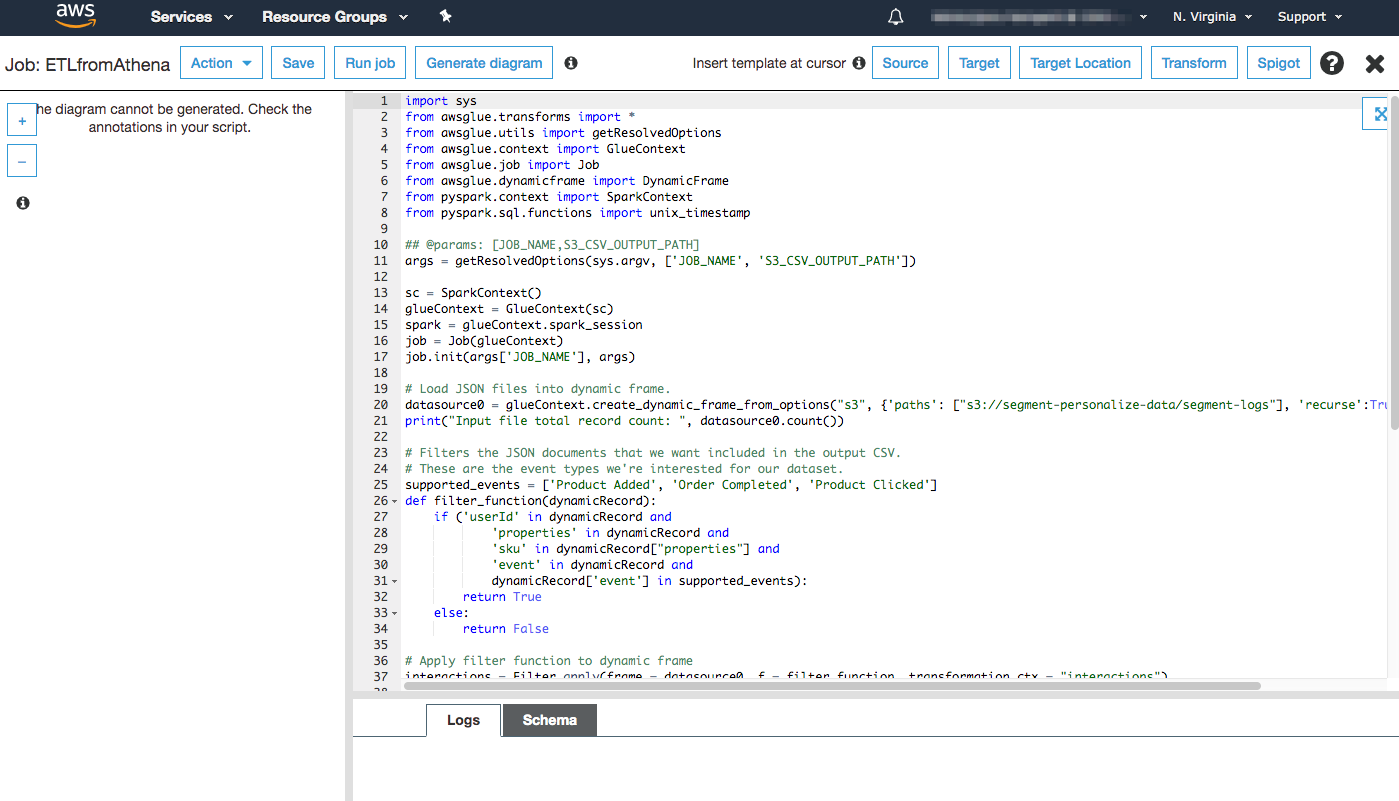
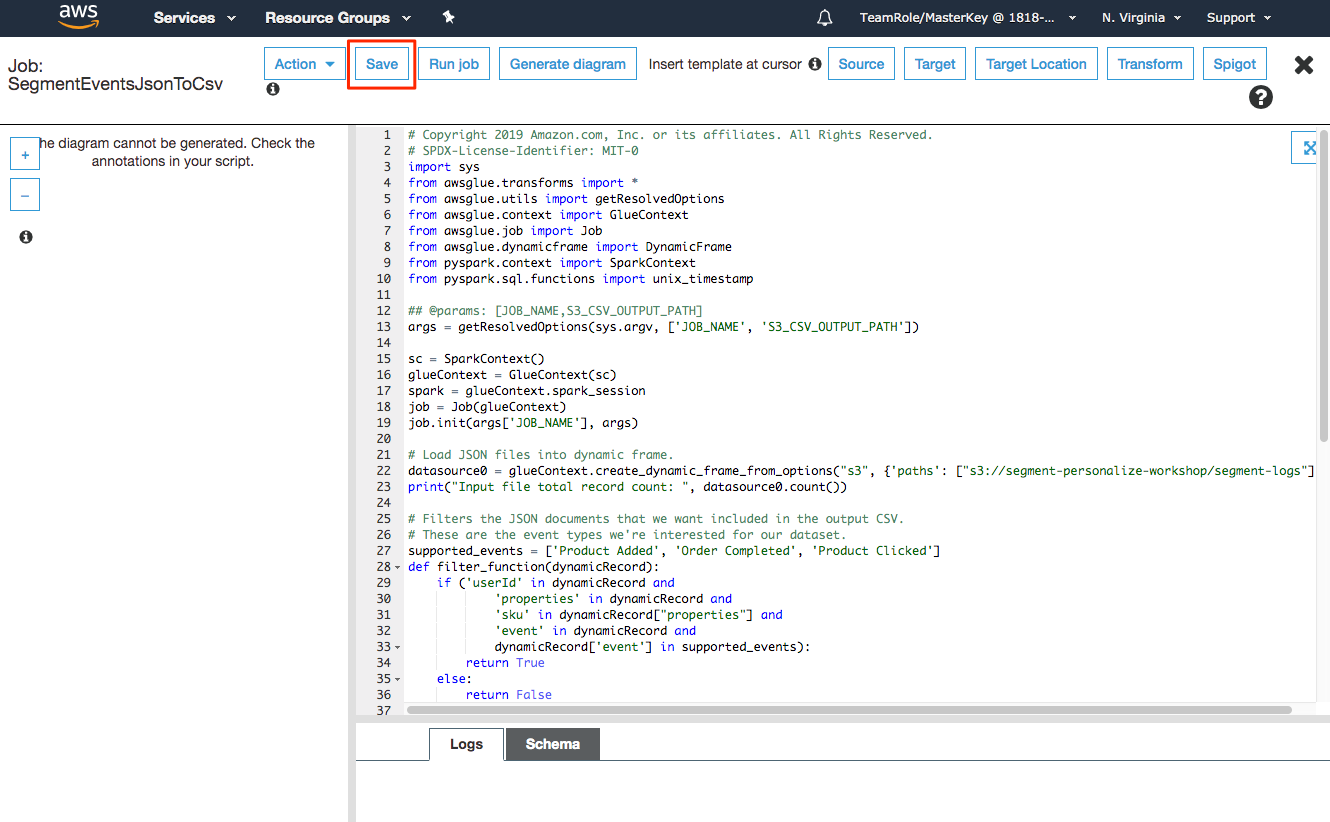
Sync screenshots for Ex 1 & 2

diff --git a/exercise1/README.md b/exercise1/README.md
@@ -344,9 +344,9 @@ In the interest of time, we have pre-populated an S3 bucket with raw historical 
 
 In this step we will demonstrate how Amazon Athena can be used to create external table pointing at the raw JSON files and then query those files using SQL. This can be an invaluable tool to inspect your data before uploading it into Personalize and as you iterate with models over time.
 
-Log in to the AWS console. If you are participating in an AWS led workshop, use the instructions provided to access your temporary workshop account. Browse to the Amazon Athena service page in the console, making sure that you are in the "N. Virginia" region.
+Log in to the AWS console. If you are participating in an AWS led workshop, use the instructions provided to access your temporary workshop account. Browse to the Amazon Athena service page in the console, making sure that you are in the "N. Virginia" region. If this is the first time you've used Athena, you will be presented with a welcome page. Click the "Get started" button to continue. If the tutorial is presented, feel free to walk through the tutorial or click the "X" to exit the tutorial.
 
-Before we can create a table for the data in S3, we need an Athena database. For the purposes of this exercise, the database that we use is not important. If a "default" database has not been setup for you, create one by entering the following DDL statement in the "New query 1" tab and pressing the "Run query" button.
+Before we can create a table for the data in S3, we need an Athena database. For the purposes of this exercise, the database that we use is not important. If a "default" or "sampledb" database already exists in your account, you can use that for the new table. Otherwise you can create a new database using the DDL statement below (paste it into the "New query 1" tab and press "Run query".
 
 ```sql
 CREATE DATABASE IF NOT EXISTS default;
@@ -354,7 +354,23 @@ CREATE DATABASE IF NOT EXISTS default;
 
 ![Create Athena Database](images/AthenaCreateDatabase.png)
 
-Next let's create a table in the Athena database above that points to the historical data in S3. We have written the DDL statement for you that will create this table. Open the [sql/athena_create_table.sql](sql/athena_create_table.sql) file, copy the contents to your clipboard, and paste file contents into the "New query 1" tab in the Athena console. Take a moment to inspect the `CREATE EXTERNAL TABLE...` statement. One important aspect of this DDL statement is that there are several field name mapping statements in the `SERDEPROPERTIES` section. These mappings address the [Athena requirement](https://docs.aws.amazon.com/athena/latest/ug/tables-databases-columns-names.html) that the only special character allowed database, table, view, and column names is an underscore. Since the Segment test data has several trait names with embedded spaces, these mappings allow us to safely query this data in Athena.
+Next let's create a table in the Athena database above that points to the historical data in S3. We have written the DDL statement for you that will create this table. Open the [sql/athena_create_table.sql](sql/athena_create_table.sql) file, copy the contents to your clipboard, and paste file contents into the "New query 1" tab in the Athena console. Take a moment to inspect the `CREATE EXTERNAL TABLE...` statement. One important aspect of this DDL statement is that there are several field name mapping statements in the `SERDEPROPERTIES` section (as shown below). These mappings address the [Athena requirement](https://docs.aws.amazon.com/athena/latest/ug/tables-databases-columns-names.html) that the only special character allowed database, table, view, and column names is an underscore. Since the Segment test data has several trait names with embedded spaces, these mappings allow us to safely query this data in Athena.
+
+```sql
+CREATE EXTERNAL TABLE IF NOT EXISTS segment_logs (
+    ...
+  )           
+ROW FORMAT SERDE 'org.openx.data.jsonserde.JsonSerDe'
+WITH SERDEPROPERTIES (
+  "mapping.campaign_name"="Campaign Name",
+  "mapping.campaign_source"="Campaign Source",
+  "mapping.experiment_group"="Experiment Group",
+  "mapping.favorite_departments"="Favorite Departments",
+  "mapping.invited_user"="Invited User?",
+  "mapping.referrering_domain"="Referrering Domain"
+  )
+LOCATION 's3://segment-personalize-workshop/segment-logs/';
+```
 
 When you're ready, press the "Run query" button to execute the statement. This will create the table in the Glue Data Catalog. Now you are ready to execute queries against the compressed JSON files. Trying inspecting the data with a few queries.
 
@@ -363,17 +379,23 @@ When you're ready, press the "Run query" button to execute the statement. This w
 SELECT * FROM segment_logs limit 20;
 ```
 
+![Athena Query Star](images/AthenaQueryStar.png)
+
 ```sql
 -- The 'event' column is what we can use for event type in training our model.
 -- What event types are available?
 SELECT COUNT(messageId) AS eventCount, event FROM segment_logs GROUP BY event ORDER BY eventCount DESC;
 ```
 
+![Athena Query Events](images/AthenaQueryEvents.png)
+
 ```sql
 -- In order to make recommendations we need an item/product to recommend.
 -- Our product SKU is in 'properties.sku'. What event types are available where we have a SKU?
 SELECT COUNT(messageId) AS eventCount, event FROM segment_logs WHERE properties.sku IS NOT NULL GROUP BY event ORDER BY eventCount DESC;
 ```
+
+![Athena Query SKUs](images/AthenaQuerySkus.png)
 
 From the results of the last query you will notice that there are three events that include a product SKU: 'Product Clicked', 'Product Added', and 'Order Completed'. We will use these events in training our model for product recommendations. We could also train models based on other event types, such as 'Page Viewed' or 'Signup Success' and use them to make content or membership program recommendations.
 
@@ -398,7 +420,7 @@ Click the "Add job" button and enter the following information.
 
 ![Glue Job Settings](images/GlueAddJobSettings.png)
 
-The source code for the Glue job has already been written for you. Copy the contents of [etl/glue_etl.py](etl/glue_etl.py) to your clipboard and paste it into the Glue editor window. Then click "Save" to save the job script.
+The source code for the Glue job has already been written for you. Copy the contents of [etl/glue_etl.py](etl/glue_etl.py) to your clipboard and paste it into the Glue editor window. **Then click "Save" to save the job script.**
 
 ![Glue Job Script](images/GlueEditJobScript.png)
 
@@ -496,7 +518,7 @@ Scroll down to the "Job parameters" section. This is where we will specify the j
 
 ![Glue Job Parameters](images/GlueRunJobParams.png)
 
-Click the "Run job" button to start the job. Once the job has started running you will see log output in the "Logs" tab at the bottom of the page. It may take a few minutes to start the execution of your job and several minutes to complete. Once your job starts executing, you can also view the log output in CloudWatch > Logs > `/aws-glue/jobs/output` while it is running. Note that the CloudWatch log will be created when your job starts running.
+Click the "Run job" button to start the job. Once the job has started running you will see log output in the "Logs" tab at the bottom of the page. Your job may sit in a "Pending execution" state for a few minutes before it starts. Once your job starts executing, you can also view the log output in CloudWatch > Logs > `/aws-glue/jobs/output` while it is running. Note that the CloudWatch log will be created when your job starts running.
 
 When the job completes click the "X" in the upper right corner of the the page to exit the job script editor.
 
@@ -504,7 +526,7 @@ When the job completes click the "X" in the upper right corner of the the page t
 
 Browse to the S3 service page in the AWS console and find the bucket with a name starting with `personalize-data-...`. Click on the bucket name. If the job completed successfully you should see a folder named "transformed". Click on "transformed" and you should see the output file created by the ETL job. If the file is missing or is empty then the job likely experienced a problem. You can review the job's log under CloudWatch > Logs > `/aws-glue/jobs/output` to troubleshoot possible errors. The most common cause for the job failing is not accurately specifying the `S3_CSV_OUTPUT_PATH` job parameter key and/or value.
 
-If you are unable to get the job to complete successfully, you can skip the ETL step and upload a pre-generated CSV located in the [data/transformed](../data/transformed) directory of this repository (i.e. upload the pre-generated file to your `personalize-data-...` S3 bucket in the `transformed` folder using the AWS console). You may need to create the `transformed` folder before uploading the file.
+If you are unable to get the job to complete successfully, you can skip the ETL step and upload a pre-generated CSV located in the [data/transformed](../data/transformed) directory of this repository (i.e. upload the pre-generated file to your `personalize-data-...` S3 bucket in the `transformed` folder using the AWS console). You may need to create the `transformed` folder before uploading the file if it was not created by your job.
 
 ![Glue Job Transformed File](images/GlueJobOutputFile.png)
 

diff --git a/exercise2/README.md b/exercise2/README.md
@@ -136,7 +136,18 @@ On the "Create solution" page, enter a "Solution name". When an interaction data
 
 ![Personalize Solution Configuration](images/PersonalizeSolutionConfig.png)
 
-Click the "Finish" button to create your Solution. This process can take several minutes to complete.
+Scroll down to the "Solution configuration" panel and click "true" to have Personalize perform hyperparameter optimization (HPO).
+
+![Personalize Solution Configuration](images/PersonalizeSolutionHPO.png)
+
+Scroll to the bottom of the page and click the "Finish" button to move to the next step. Finally, on the "Create solution version" page, click "Finish" to create your Solution.
+
+![Personalize Solution Version](images/PersonalizeSolutionVersion.png)
+
+The process of creating your Solution can take 30-40 minutes for our test dataset.
+
+![Personalize Solution Creation in Progress](images/PersonalizeSolutionInProgress.png)
+
 
 ![Personalize Solution Creation in Progress](images/PersonalizeSolutionInProgress.png)
 
